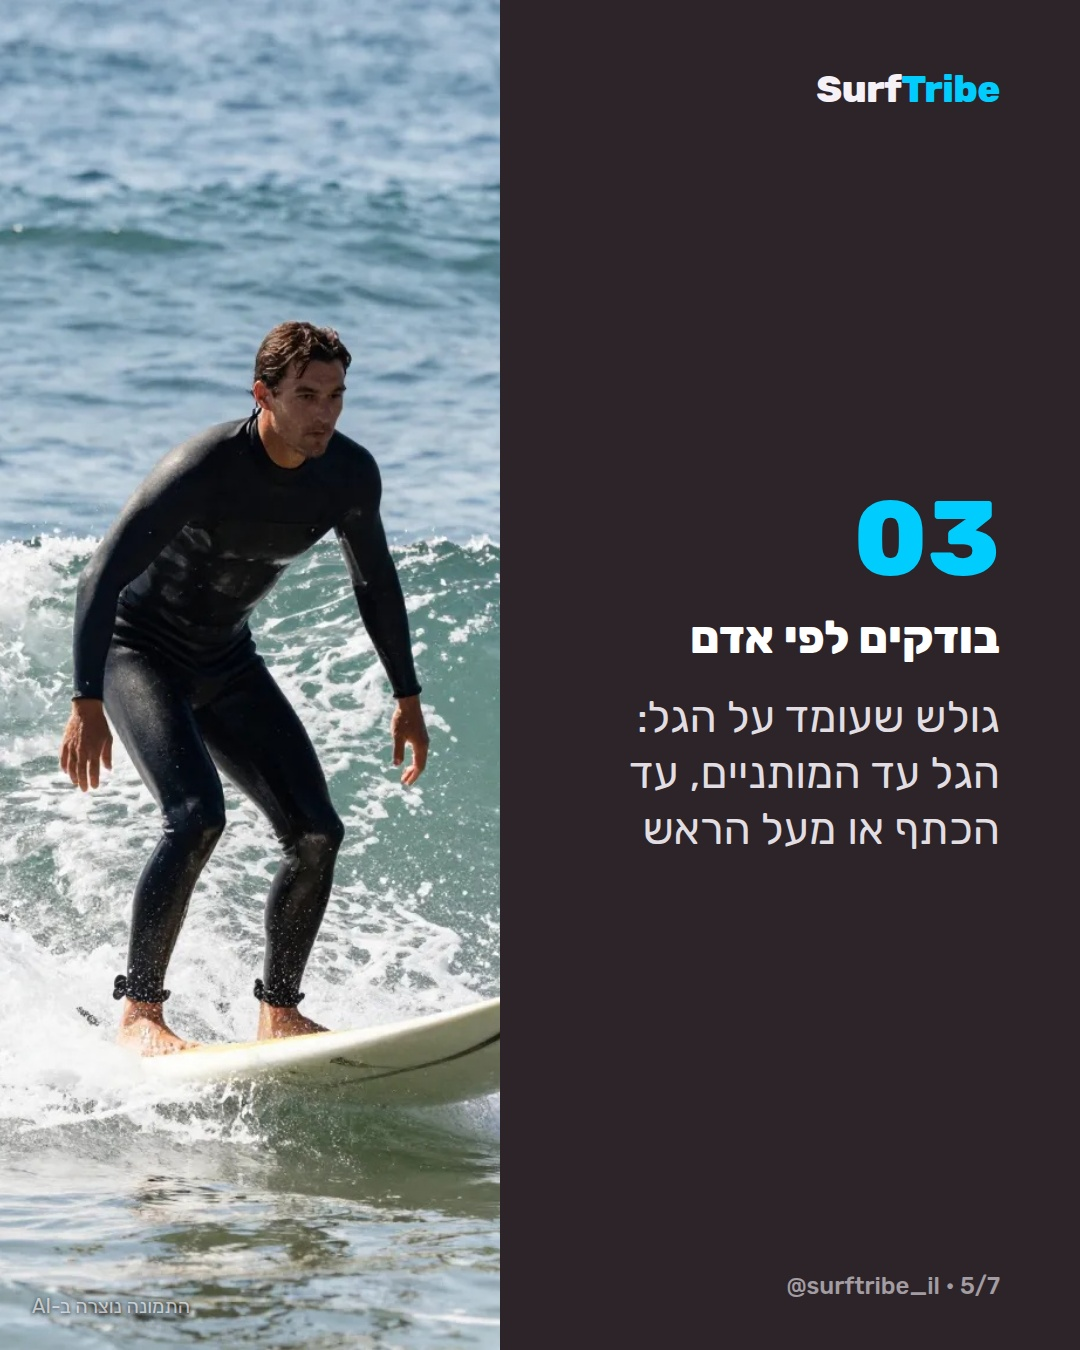
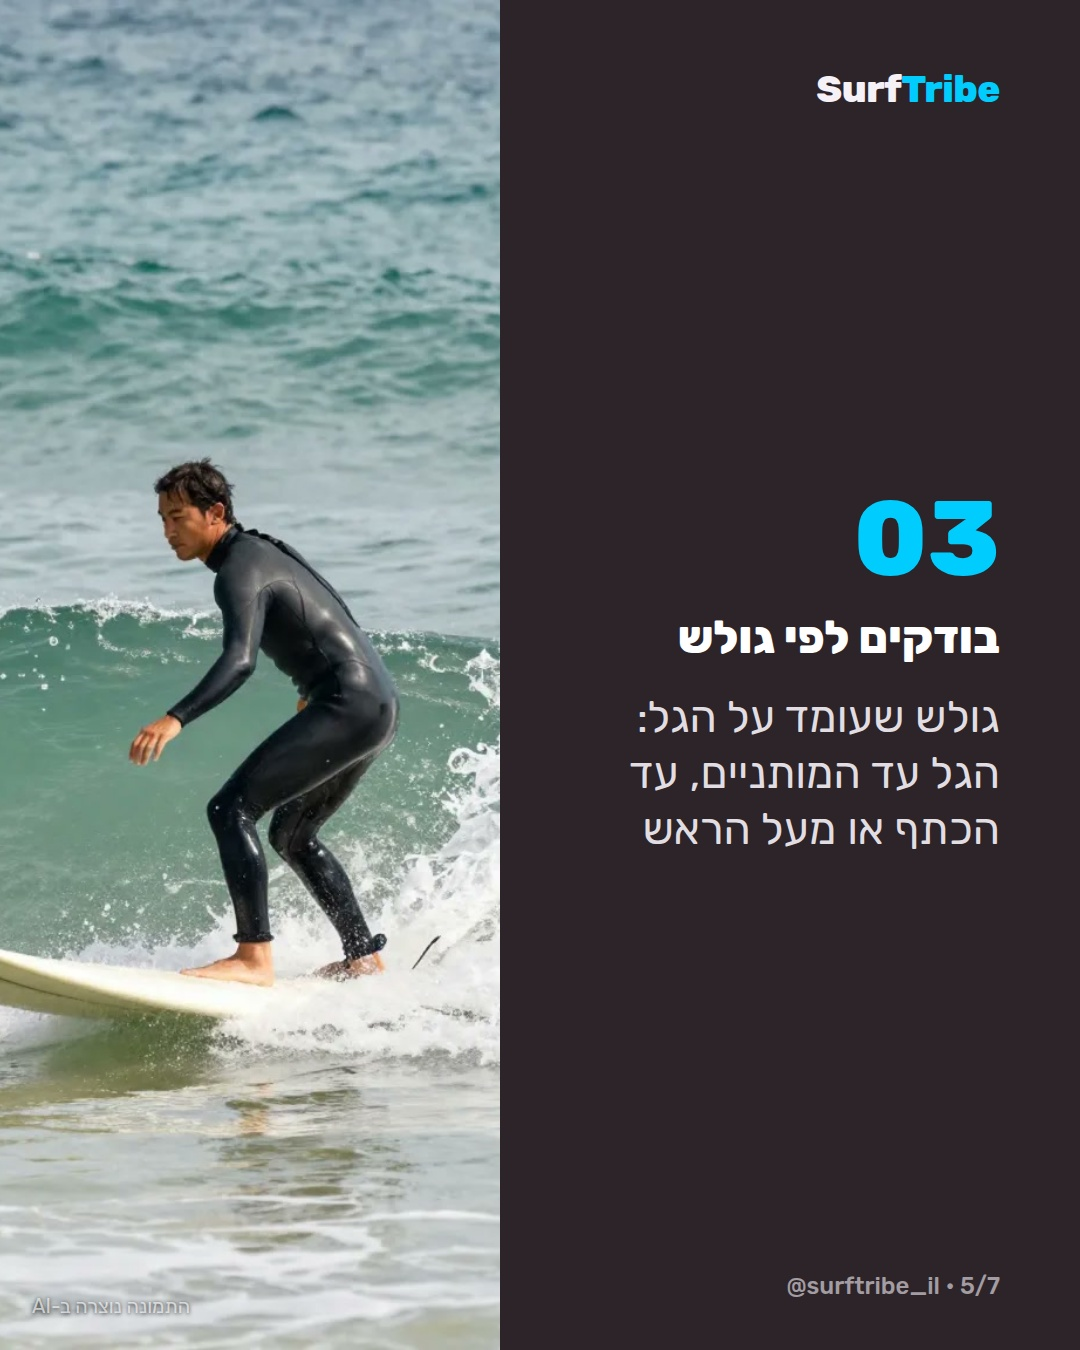
p17: native wording on slides 01 and 03, slide 5 photo with one leash (old frame had two)

diff --git a/tools/carousel/generate_carousel.py b/tools/carousel/generate_carousel.py
@@ -356,7 +356,7 @@ POSTS = {
             'stake': os.path.join(BRAIN_DIR, 'p17_stake_toponly.jpg'),
             '01': os.path.join(BRAIN_DIR, 'p17_s01_distance_shrink.jpg'),
             '02': os.path.join(BRAIN_DIR, 'p17_s02_nocomparison.jpg'),
-            '03': os.path.join(BRAIN_DIR, 'p17_s03_measureperson.jpg'),
+            '03': '/home/dmitrii-nikonov/volunteer/assets/carousel/p17/p17_s03_onelash_zimage.jpg',  # 29.10: old frame had a leash on both ankles
             # 29.10: replaced the row of seven near-identical men (p17_final_card.jpg)
             'final': os.path.join(ASSETS_DIR, 'p17', 'p17_final_two_surfers_check_waves.jpg'),
         },
@@ -365,7 +365,7 @@ POSTS = {
             'Slide 2 (Stake)': 'Photorealistic vertical surf photo from the sand dunes showing only the white spray and topmost crest of an ocean wave breaking behind the horizon line, scale obscured, sunny natural coastal light, 8k quality',
             'Slide 3 (Idea 01)': 'Photorealistic vertical surf photo of an ocean wave breaking 100 meters out at sea, telephoto perspective compressing distance, making the wave appear smaller than it is, documentary surf photo, 8k quality',
             'Slide 4 (Idea 02)': 'Photorealistic vertical surf photo of an empty clean peeling ocean wave with no surfers on it, clean barrel face, ambiguous scale without reference, natural morning ocean lighting, 8k quality',
-            'Slide 5 (Idea 03)': 'Photorealistic vertical surf photo of an adult surfer riding cleanly on an ocean wave face that reaches waist to chest high, clear human body scale against wave height, sunny natural light, no logos, 8k quality',
+            'Slide 5 (Idea 03)': 'Z-Image Turbo seed 301029: Documentary surf photograph, telephoto from the beach: an adult male surfer in a plain black wetsuit standing on a white surfboard riding a small green wave in the Mediterranean, the wave face reaches up to his waist, crouched relaxed stance, side view, a single black leash cord attached only to his back ankle, front ankle bare, natural midday light, realistic anatomy, no logos, no text',
             'Slide 7 (Final, Z-Image Turbo, 29.10)': 'Photorealistic horizontal documentary surf photograph: two clearly different adult surfers standing on a sandy Mediterranean beach checking the waves, seen from behind and slightly to the side. On the left a tall man in his 40s with short grey hair and a beard in a black full wetsuit holding a plain white unbranded longboard upright; on the right a shorter woman in her early 30s with a dark ponytail in a navy wetsuit with a plain unbranded shortboard under her arm. Medium-sized waves breaking offshore, warm morning light, natural colors, no text, no logos, no flags, no signs'
         },
         'generator': "Slides 1-5 generated using Google Imagen 3 via Antigravity generate_image tool. Slide 7 (final) replaced 29.10, generated using Z-Image Turbo via Hugging Face (mcp-tools/Z-Image-Turbo).",
@@ -373,9 +373,9 @@ POSTS = {
             'cover': ('נראה חצי מטר מהחוף?', 'במים זה יותר'),
             'stake': 'מהחוף רואים רק את החלק העליון של הגל',
             'ideas': [
-                ('01', 'המרחק מקטין', 'גל שנשבר 100 מטר מכם נראה נמוך מכפי שהוא'),
+                ('01', 'המרחק מטעה', 'גל שנשבר 100 מטר מכם נראה נמוך מכפי שהוא'),
                 ('02', 'אין עם מה להשוות', 'בלי גולש לידו, קשה להבין את הגודל'),
-                ('03', 'בודקים לפי אדם', 'גולש שעומד על הגל: הגל עד המותניים, עד הכתף או מעל הראש'),
+                ('03', 'בודקים לפי גולש', 'גולש שעומד על הגל: הגל עד המותניים, עד הכתף או מעל הראש'),
             ],
             'recap': ('בקצרה', [
                 'מהחוף רואים רק את החלק העליון של הגל',
